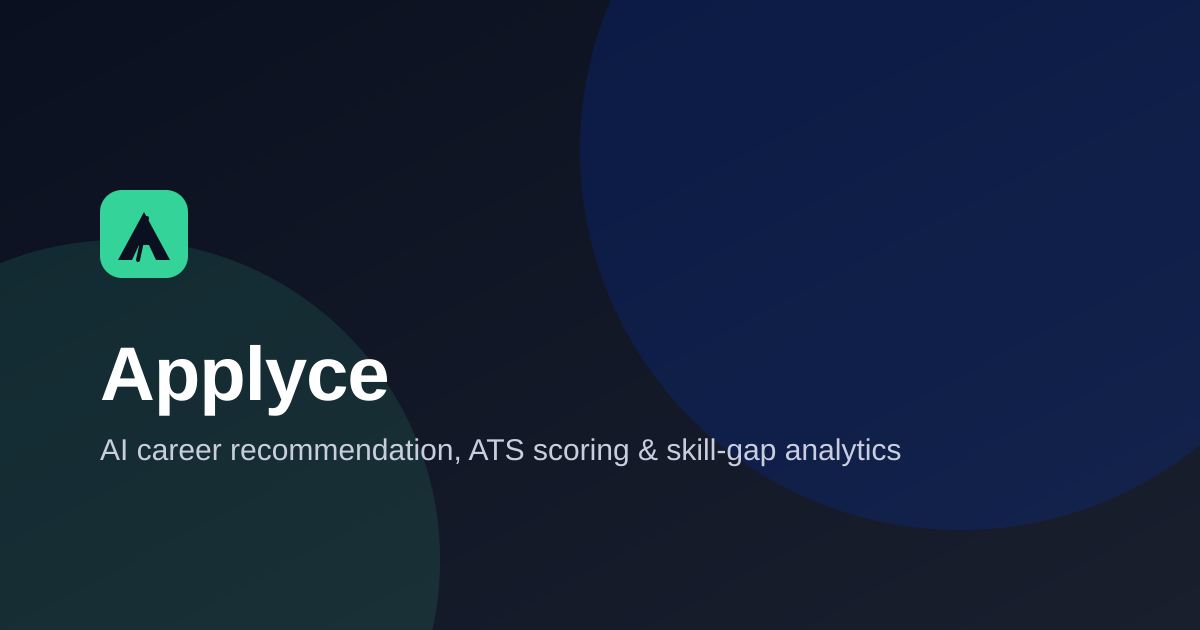
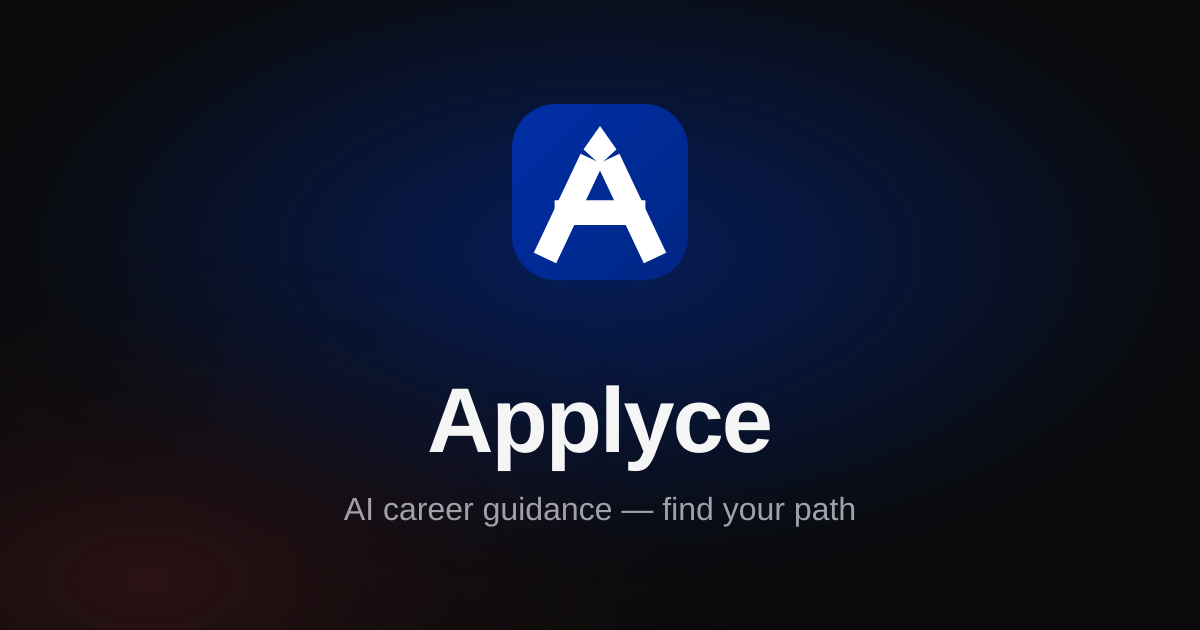
feat(redesign-f1): brand identity foundation — 'The Apex' mark
One coherent geometric mark ('The Apex' — ascending strokes + diamond
point-of-arrival, abstract A) built from brand colors only, token-driven
for light/dark. Kills the old green (#34d399) which matched nothing.

- src/components/brand/LogoMark.tsx (new, token-driven SVG mark)
- Logo.tsx rewritten: mark + wordmark, sm/md, hover micro-lift
- favicon.svg: Klein Blue tile + white Apex (reads at 16px, 2.25px bars)
- public/: favicon.svg, mask-icon.svg (mono), apple-touch-icon.png (180),
  site.webmanifest (theme #002fa7, canvas bg), og-image.{svg,png} 1200x630
  (zero green, brand glows, new tagline)
- index.html: icon set + mask + apple-touch + theme-color (light/dark) +
  manifest; OG/twitter tagline updated
- Footer uses real Logo (was plain text); Landing hero eyebrow now leads
  with the mark + 'AI Career Guidance'

Verified: tsc 0 errors, vite build PASS (pre-existing chunk warning),
valid SVG, no off-brand green anywhere, usage sites = navbar/sidebar/
mobile topbar/login/footer/hero. PNGs rendered via rsvg-convert (og
1200x630 105KB, apple-touch 180x180 3.9KB) — og PNG uses DejaVu Sans
fallback (no Inter on box); SVG canonical.

diff --git a/index.html b/index.html
@@ -3,12 +3,19 @@
 
 <head>
   <meta charset="UTF-8" />
-  <link rel="icon" type="image/svg+xml" href="/src/assets/favicon.svg" />
   <meta name="viewport" content="width=device-width, initial-scale=1.0" />
 
   <!-- Primary meta -->
-  <title>Applyce - AI Career Recommendation Platform</title>
-  <meta name="description" content="Applyce analyzes your resume with AI to recommend the best-fit careers, score your ATS compatibility, estimate salary bands, and close skill gaps with a personalized roadmap." />
+  <title>Applyce - AI Career Guidance</title>
+  <meta name="description" content="Applyce analyzes your resume with AI to recommend the best-fit careers, score your ATS compatibility, estimate salary bands, and close skill gaps with a personalized roadmap. Find your path." />
+
+  <!-- Icons & browser chrome -->
+  <link rel="icon" type="image/svg+xml" href="/favicon.svg" />
+  <link rel="mask-icon" href="/mask-icon.svg" color="#002fa7" />
+  <link rel="apple-touch-icon" sizes="180x180" href="/apple-touch-icon.png" />
+  <meta name="theme-color" content="#002fa7" media="(prefers-color-scheme: light)" />
+  <meta name="theme-color" content="#0a0a0a" media="(prefers-color-scheme: dark)" />
+  <link rel="manifest" href="/site.webmanifest" />
 
   <!-- Canonical -->
   <link rel="canonical" href="https://applyce.tech/" />
@@ -16,18 +23,18 @@
   <!-- Open Graph -->
   <meta property="og:site_name" content="Applyce" />
   <meta property="og:type" content="website" />
-  <meta property="og:title" content="Applyce - AI Career Recommendation Platform" />
-  <meta property="og:description" content="Applyce analyzes your resume with AI to recommend the best-fit careers, score your ATS compatibility, estimate salary bands, and close skill gaps with a personalized roadmap." />
+  <meta property="og:title" content="Applyce - AI Career Guidance" />
+  <meta property="og:description" content="Find your path with Applyce — AI resume analysis, career matching, ATS scoring, salary estimates, and skill-gap roadmaps." />
   <meta property="og:url" content="https://applyce.tech/" />
   <meta property="og:image" content="https://applyce.tech/og-image.png" />
   <meta property="og:image:width" content="1200" />
   <meta property="og:image:height" content="630" />
-  <meta property="og:image:alt" content="Applyce - AI career recommendation, ATS scoring &amp; skill-gap analytics" />
+  <meta property="og:image:alt" content="Applyce — AI career guidance. Find your path." />
 
   <!-- Twitter -->
   <meta name="twitter:card" content="summary_large_image" />
-  <meta name="twitter:title" content="Applyce - AI Career Recommendation Platform" />
-  <meta name="twitter:description" content="Applyce analyzes your resume with AI to recommend the best-fit careers, score your ATS compatibility, estimate salary bands, and close skill gaps with a personalized roadmap." />
+  <meta name="twitter:title" content="Applyce - AI Career Guidance" />
+  <meta name="twitter:description" content="Find your path with Applyce — AI resume analysis, career matching, ATS scoring, salary estimates, and skill-gap roadmaps." />
   <meta name="twitter:image" content="https://applyce.tech/og-image.png" />
 
   <!-- Structured data -->

diff --git a/src/pages/LandingPage.tsx b/src/pages/LandingPage.tsx
@@ -7,6 +7,7 @@ import {
 } from 'lucide-react';
 import { Link } from 'react-router-dom';
 import { Badge } from '../components/ui/Badge';
+import { LogoMark } from '../components/brand/LogoMark';
 import { Button } from '../components/ui/Button';
 import { Card } from '../components/ui/Card';
 import { CircularProgress } from '../components/ui/CircularProgress';
@@ -161,9 +162,10 @@ export default function LandingPage() {
           {/* Copy column */}
           <div>
             <motion.div initial={{ opacity: 0, y: -10 }} animate={{ opacity: 1, y: 0 }} transition={{ duration: 0.5 }}>
-              <Badge tone="info" dot className="mb-6">
-                Powered by Advanced AI
-              </Badge>
+              <span className="mb-6 inline-flex items-center gap-2.5 rounded-full border border-line bg-surface/80 py-1.5 pl-2 pr-4 shadow-glow backdrop-blur-sm">
+                <LogoMark size={22} className="shrink-0" />
+                <span className="text-xs font-semibold tracking-wide text-ink-sec">AI Career Guidance</span>
+              </span>
             </motion.div>
 
             <motion.h1
@@ -177,18 +179,11 @@ export default function LandingPage() {
               Path with AI
             </motion.h1>
 
-            <motion.div
-              initial={{ opacity: 0 }}
-              animate={{ opacity: 1 }}
-              transition={{ duration: 0.6, delay: 0.2 }}
-              className="mt-4 h-[3px] w-16 rounded-full bg-gradient-to-r from-accent to-burgundy"
-            />
-
             <motion.p
               initial={{ opacity: 0, y: 20 }}
               animate={{ opacity: 1, y: 0 }}
               transition={{ duration: 0.6, delay: 0.25 }}
-              className="mt-8 max-w-2xl text-lg leading-relaxed text-ink-sec md:text-xl"
+              className="mt-6 max-w-2xl text-lg leading-relaxed text-ink-sec md:text-xl"
             >
               Upload your resume and get a clear read on your strengths, your gaps, and the careers that fit you — all in under a minute.
             </motion.p>

diff --git a/src/components/brand/LogoMark.tsx b/src/components/brand/LogoMark.tsx
@@ -1,0 +1,61 @@
+import type { CSSProperties } from 'react';
+
+/**
+ * LogoMark — the Applyce brand mark.
+ *
+ * Concept: "The Apex" — two ascending strokes (the career path) rise from the
+ * baseline to a diamond point-of-arrival at the apex, forming an abstract "A".
+ * The diamond doubles as a compass needle / target marker: find your path.
+ *
+ * Geometry is token-driven so it adapts to light/dark automatically:
+ *   - tile  -> fill-accent   (Klein Blue in light, lifted Klein Blue in dark)
+ *   - glyph -> fill/stroke-surface (canvas-white in light, near-ink on dark blue)
+ *
+ * Bars are 9/64 units (≈2.25px at a 16px favicon) — no fine strokes anywhere,
+ * so the silhouette survives tiny sizes.
+ */
+export function LogoMark({
+  size = 28,
+  className,
+  style,
+}: {
+  size?: number | string;
+  className?: string;
+  style?: CSSProperties;
+}) {
+  return (
+    <svg
+      width={size}
+      height={size}
+      viewBox="0 0 64 64"
+      fill="none"
+      className={className}
+      style={style}
+      aria-hidden="true"
+      focusable="false"
+    >
+      {/* Rounded-square tile */}
+      <rect width="64" height="64" rx="16" className="fill-accent" />
+
+      {/* The Apex — two ascending strokes + crossbar (the path) */}
+      <g
+        transform="translate(0 6)"
+        fill="none"
+        strokeWidth={9}
+        strokeLinecap="butt"
+        className="stroke-surface"
+      >
+        <path d="M12 50 L29 14" />
+        <path d="M52 50 L35 14" />
+        <path d="M15.5 33.5 L48.5 33.5" />
+      </g>
+
+      {/* Point-of-arrival diamond (compass needle / target) */}
+      <path
+        transform="translate(0 6)"
+        d="M32 2 L38 10.5 L32 16 L26 10.5 Z"
+        className="fill-surface"
+      />
+    </svg>
+  );
+}

diff --git a/src/components/layout/Logo.tsx b/src/components/layout/Logo.tsx
@@ -1,16 +1,33 @@
-import { ArrowUpRight } from 'lucide-react';
 import { Link } from 'react-router-dom';
+import { LogoMark } from '../brand/LogoMark';
 
+/**
+ * Applyce logo — brand mark + wordmark.
+ * The mark uses semantic tokens (accent tile / surface glyph) so it adapts
+ * cleanly to light & dark surfaces in the navbar, sidebar, login card,
+ * footer, and landing.
+ */
 export function Logo({ size = 'md' }: { size?: 'sm' | 'md' }) {
-  const box = size === 'sm' ? 'h-6 w-6 rounded-md' : 'h-7 w-7 rounded-md';
-  const icon = size === 'sm' ? 13 : 15;
+  const markSize = size === 'sm' ? 24 : 28;
+  const wordClass =
+    size === 'sm' ? 'text-[14px] tracking-tight' : 'text-[15px] tracking-tight';
 
   return (
-    <Link to="/" className="flex items-center gap-2 select-none" aria-label="Applyce home">
-      <span className={`grid ${box} place-items-center bg-ink text-accent dark:bg-white dark:text-black`}>
-        <ArrowUpRight size={icon} strokeWidth={2.75} />
+    <Link
+      to="/"
+      className="group inline-flex select-none items-center gap-2"
+      aria-label="Applyce home"
+    >
+      <LogoMark
+        size={markSize}
+        className="shrink-0 transition-transform duration-200 group-hover:scale-[1.05]"
+      />
+      <span
+        className={`font-semibold text-ink ${wordClass}`}
+        style={{ fontFamily: 'Inter, system-ui, sans-serif' }}
+      >
+        Applyce
       </span>
-      <span className="text-[15px] font-semibold tracking-tight text-ink">Applyce</span>
     </Link>
   );
 }

diff --git a/src/components/layout/Footer.tsx b/src/components/layout/Footer.tsx
@@ -1,5 +1,6 @@
 import { ReactNode } from 'react';
 import { Link } from 'react-router-dom';
+import { Logo } from './Logo';
 
 const columns: { title: string; links: { to: string; label: string }[] }[] = [
   {
@@ -36,8 +37,8 @@ export function Footer() {
       <div className="mx-auto max-w-6xl px-4 py-14 md:px-8">
         <div className="grid gap-10 md:grid-cols-[1.5fr_1fr_1fr_1fr]">
           <div>
-            <p className="text-[15px] font-semibold tracking-tight text-ink">Applyce</p>
-            <p className="mt-3 max-w-xs text-sm leading-relaxed text-ink-sec">
+            <Logo size="sm" />
+            <p className="mt-4 max-w-xs text-sm leading-relaxed text-ink-sec">
               Career guidance for every stage — analyze your resume, close skill
               gaps, and land the role that fits you.
             </p>
